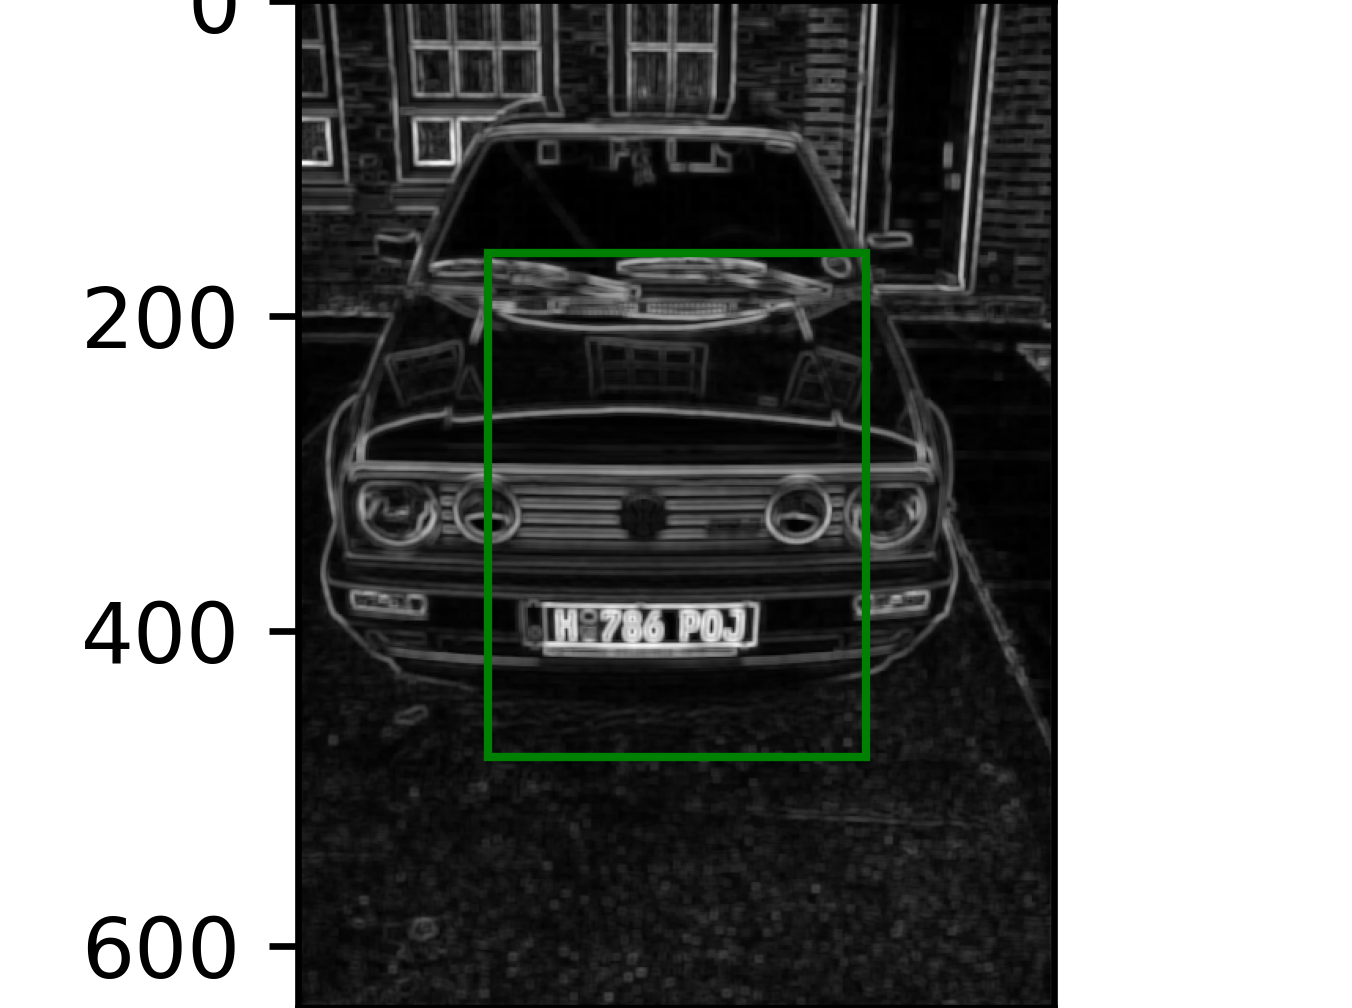
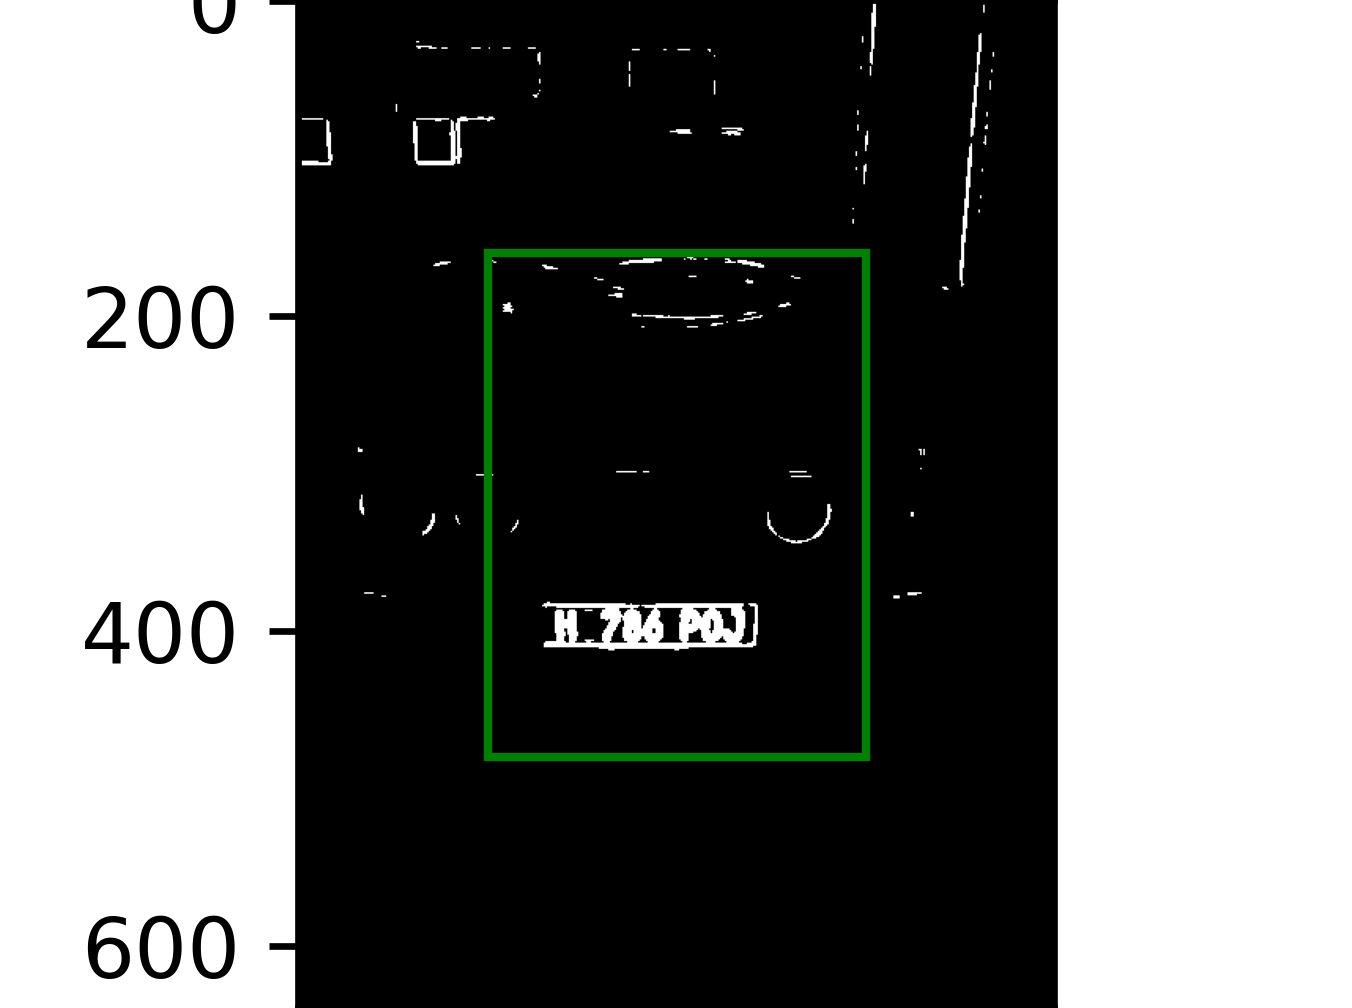
Implemented Thresholding Operation Function
added computeThresholdGE() and Comments to main function

diff --git a/CS373LicensePlateDetection.py b/CS373LicensePlateDetection.py
@@ -142,6 +142,17 @@ def computeStandardDeviationImage5x5(pixel_array, image_width, image_height):
 
     return output
 
+
+def computeThresholdGE(pixel_array, threshold_value, image_width, image_height):
+    greyscale = createInitializedGreyscalePixelArray(image_width, image_height)
+
+    for i, x in enumerate(pixel_array):
+        for j, y in enumerate(x):
+            if y >= threshold_value:
+                greyscale[i][j] = 1
+
+    return greyscale
+
 # This is our code skeleton that performs the license plate detection.
 # Feel free to try it on your own images of cars, but keep in mind that with our algorithm developed in this lecture,
 # we won't detect arbitrary or difficult to detect license plates!
@@ -184,17 +195,21 @@ def main():
 
     # STUDENT IMPLEMENTATION here
 
-    # Question 1:
+    # Step 1:
     # Convert RGB to greyscale image
     px_array = computeRGBToGreyscale(px_array_r, px_array_g, px_array_b, image_width, image_height)
     # Stretch the values to lie between 0 and 255
     px_array = scaleTo0And255AndQuantize(px_array, image_width, image_height)
 
-    #Question 2:
-    #Computing the standard deviation in the 5x5 pixel neighbourhood
+    # Step 2:
+    # Computing the standard deviation in the 5x5 pixel neighbourhood
     px_array = computeStandardDeviationImage5x5(px_array, image_width, image_height)
     # Stretch the result to lie between 0 and 255
     px_array = scaleTo0And255AndQuantize(px_array, image_width, image_height)
+
+    # Step 3:
+    threshold_value = 150;
+    px_array = computeThresholdGE(px_array, threshold_value, image_width, image_height)
 
 
     # compute a dummy bounding box centered in the middle of the input image, and with as size of half of width and height
